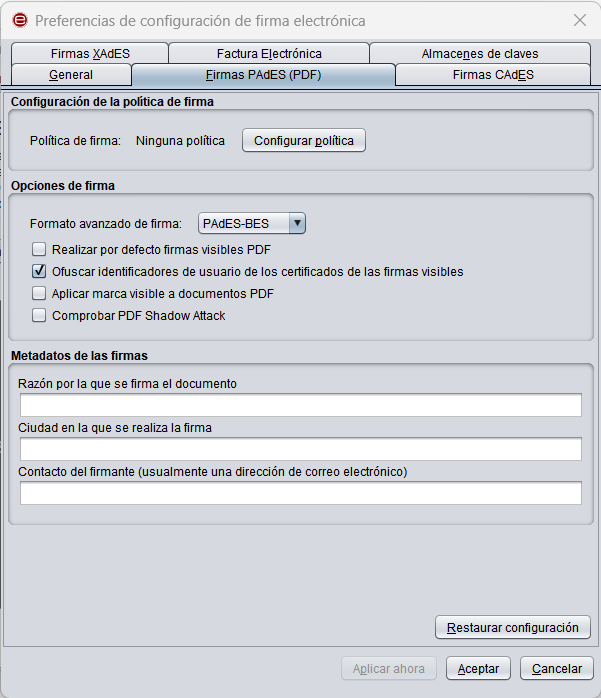
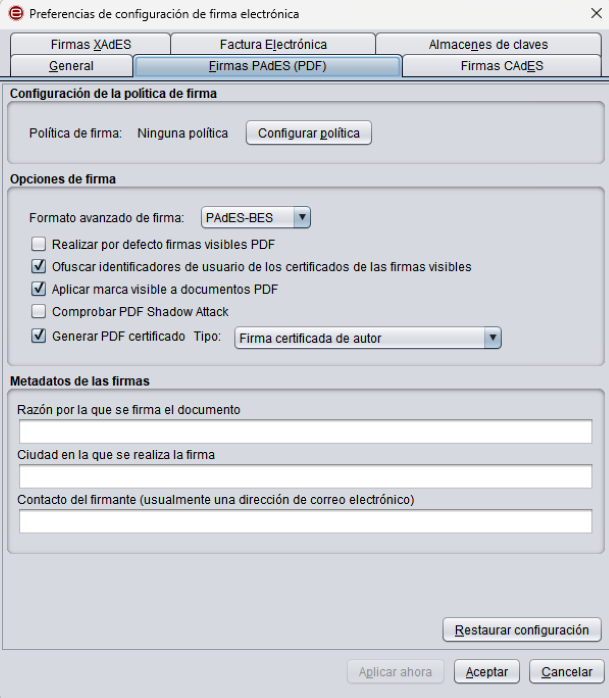
16821 - Actualizacion apartado ayuda

diff --git a/afirma-simple/src/main/resources/help/Spanish.lproj/pgs/PantallaFirma.html b/afirma-simple/src/main/resources/help/Spanish.lproj/pgs/PantallaFirma.html
@@ -29,7 +29,7 @@
   	Al cargar los documentos a firmar, se le mostrar&aacute;n ciertos detalles sobre estos, que variar&aacute;n seg&uacute;n se seleccione un &uacute;nico fichero o varios:
   </p>
   <p align="center">
-   <img src="../gfx/pantallafirma2_mini.png" alt="Pantalla para la selecci&oacute;n y firma de documentos con un fichero cargado">
+   <img src="../gfx/pantallafirma4_mini.png" alt="Pantalla para la selecci&oacute;n y firma de documentos con un fichero cargado">
    <img src="../gfx/pantallafirma3_mini.png" alt="Pantalla para la selecci&oacute;n y firma con m&uacute;ltiples ficheros cargados">
   </p>
   <p>
@@ -122,6 +122,12 @@
 	   esta funci&oacute;n ser&aacute; necesario marcar la casilla "Insertar marca visible en el PDF".  Esta casilla
 	   estar&aacute; deshabilitada si el documento PDF ya est&aacute; firmado, ya que la inserci&oacute;n de una marca
 	   invalidar&iacute;a las firmas anteriores.
+     </p>
+     <p>
+	   Otra opci&oacute;n disponible ser&iacute;a la de generar un PDF certificado, ser&aacute; posible si la firma a realizar es formato PAdES y el documento
+	   no est&aacute; previamente firmado. Se realiza al marcar la casilla "Generar PDF certificado", y se aplica al documento el nivel
+	   de certificaci&oacute;n seleccionado en la lista de opciones bajo dicha casilla.
+	   El listado de opciones estar&aacute; deshabilitado si la casilla "Generar PDF certificado" no est&aacute; habilitada.
      </p>
      <p>
 	   Estas opci&oacute;nes aparecer&aacute;n marcadas o no por defecto seg&uacute;n se haya establecido en el <a href="MenuPreferencias.html">panel de preferencias</a>. Al

diff --git a/afirma-simple/src/main/resources/help/Spanish.lproj/pgs/MenuPreferencias.html b/afirma-simple/src/main/resources/help/Spanish.lproj/pgs/MenuPreferencias.html
@@ -119,6 +119,9 @@
       <li>Aplicar marca visible a documentos PDF: Al habilitar esta opci&oacute;n y firmar un documento en formato PAdES, se le
       presentar&aacute; al usuario una ventana para la selecci&oacute;n del &aacute;rea y p&aacute;ginas del PDF en las que se
       agregar&aacute; una marca visible. Consulte el apartado <a href="VentanaPdfVisible.html">Marcas visibles PDF</a> para mayor detalle.</li>
+      <li>Generar PDF certificado: Al habilitar esta opci&oacute;n, se permitir&aacute; al usuario generar un PDF certificado, con el nivel
+      de certificaci&oacute;n que se elija en el listado situado a continuaci&oacute;n.
+      .</li>
      </ul>
     </li>
     <li><b>Metadatos de las firmas PAdES:</b>
